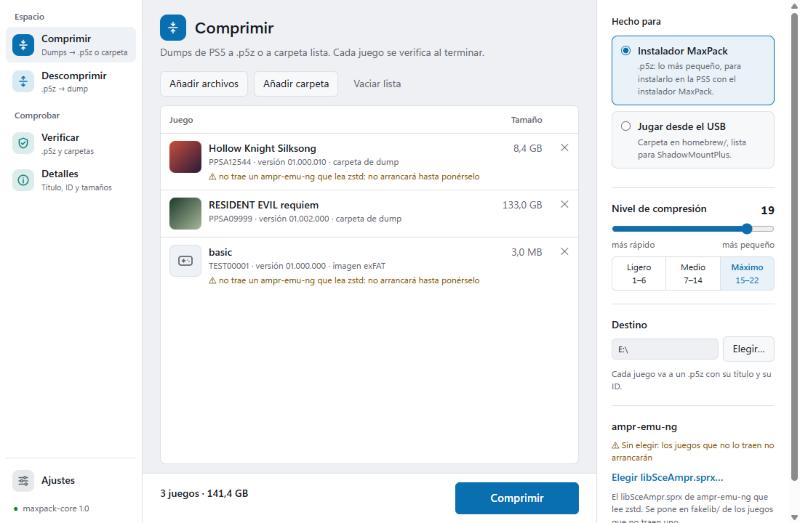
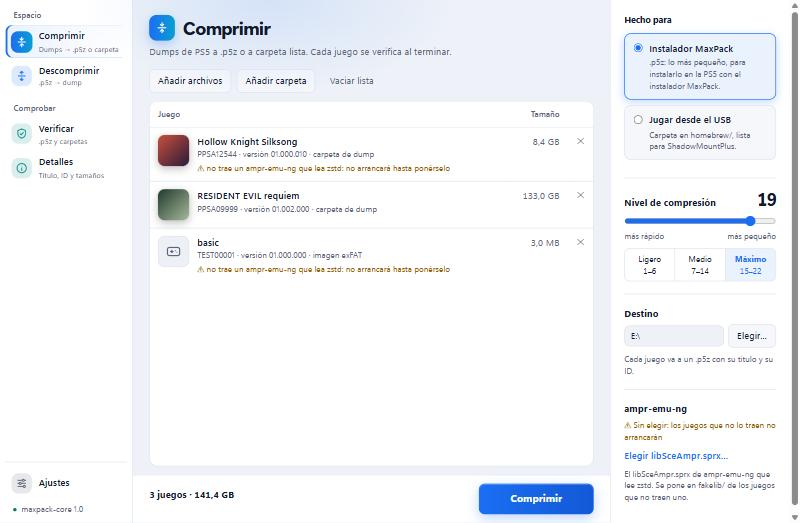
Docs: capturas de la ventana con la dirección A

diff --git a/gui/frontend/style.css b/gui/frontend/style.css
@@ -104,14 +104,14 @@ nav { position: relative; width: 196px; flex: none; border-right: 1px solid var(
 nav .icon { width: 18px; height: 18px; flex: none; fill: none; stroke: currentColor; stroke-width: 1.9; stroke-linecap: round; stroke-linejoin: round; }
 nav .group { font-size: 12px; font-weight: 600; color: var(--muted); padding: 12px 12px 4px; }
 nav div.group:first-of-type { padding-top: 2px; }
-nav button { position: relative; text-align: left; border-color: transparent; background: transparent; padding: 6px 10px 6px 8px; display: flex; gap: 11px; align-items: center; border-radius: var(--radius); }
+nav button { position: relative; text-align: left; border-color: transparent; background: transparent; padding: 5px 10px 5px 8px; display: flex; gap: 10px; align-items: center; border-radius: var(--radius); }
 nav button > span { min-width: 0; }
 nav button b { display: block; font-weight: 600; }
 nav button small { display: block; font-size: 11px; color: var(--muted); }
 nav button:hover:not(:disabled) { background: var(--hover); }
 nav button.on, nav button.on:hover:not(:disabled) { background: transparent; }
 /* the icon of a section on a tile in the color of its group, filled when the section is open */
-.tile { width: 32px; height: 32px; flex: none; display: grid; place-items: center; border-radius: 10px; color: var(--tone); background: color-mix(in srgb, var(--tone) 15%, transparent); transition: transform .3s var(--ease); }
+.tile { width: 30px; height: 30px; flex: none; display: grid; place-items: center; border-radius: 10px; color: var(--tone); background: color-mix(in srgb, var(--tone) 15%, transparent); transition: transform .3s var(--ease); }
 .tone-space { --tone: var(--tone-space); --tone-grad: var(--grad); }
 .tone-check { --tone: var(--tone-check); --tone-grad: var(--grad-check); }
 .tone-neutral { --tone: var(--tone-neutral); --tone-grad: linear-gradient(135deg, #64748b, #93a0b8); }

diff --git a/docs/ventana-pc.md b/docs/ventana-pc.md
@@ -84,6 +84,11 @@ sin verificar:
 - si algo no se puede borrar (por ejemplo, un archivo abierto en otro programa), la fila lo dice,
   con la ruta, para que lo borres tú.
 
+Al terminar sale el resultado. Si la cola comprimió y ahorró espacio, el tamaño de antes se aprieta
+hasta el de ahora, con una barra que se encoge, y los GB ahorrados cuentan hacia arriba. Debajo
+salen lo que más ahorró y qué hacer después. Si el sistema pide menos movimiento, se ven los números
+finales sin animación.
+
 ![El resultado: lo que más ahorró y qué hacer después](img/ventana-resultado.jpg)
 
 ### Hecho para: Instalador MaxPack
